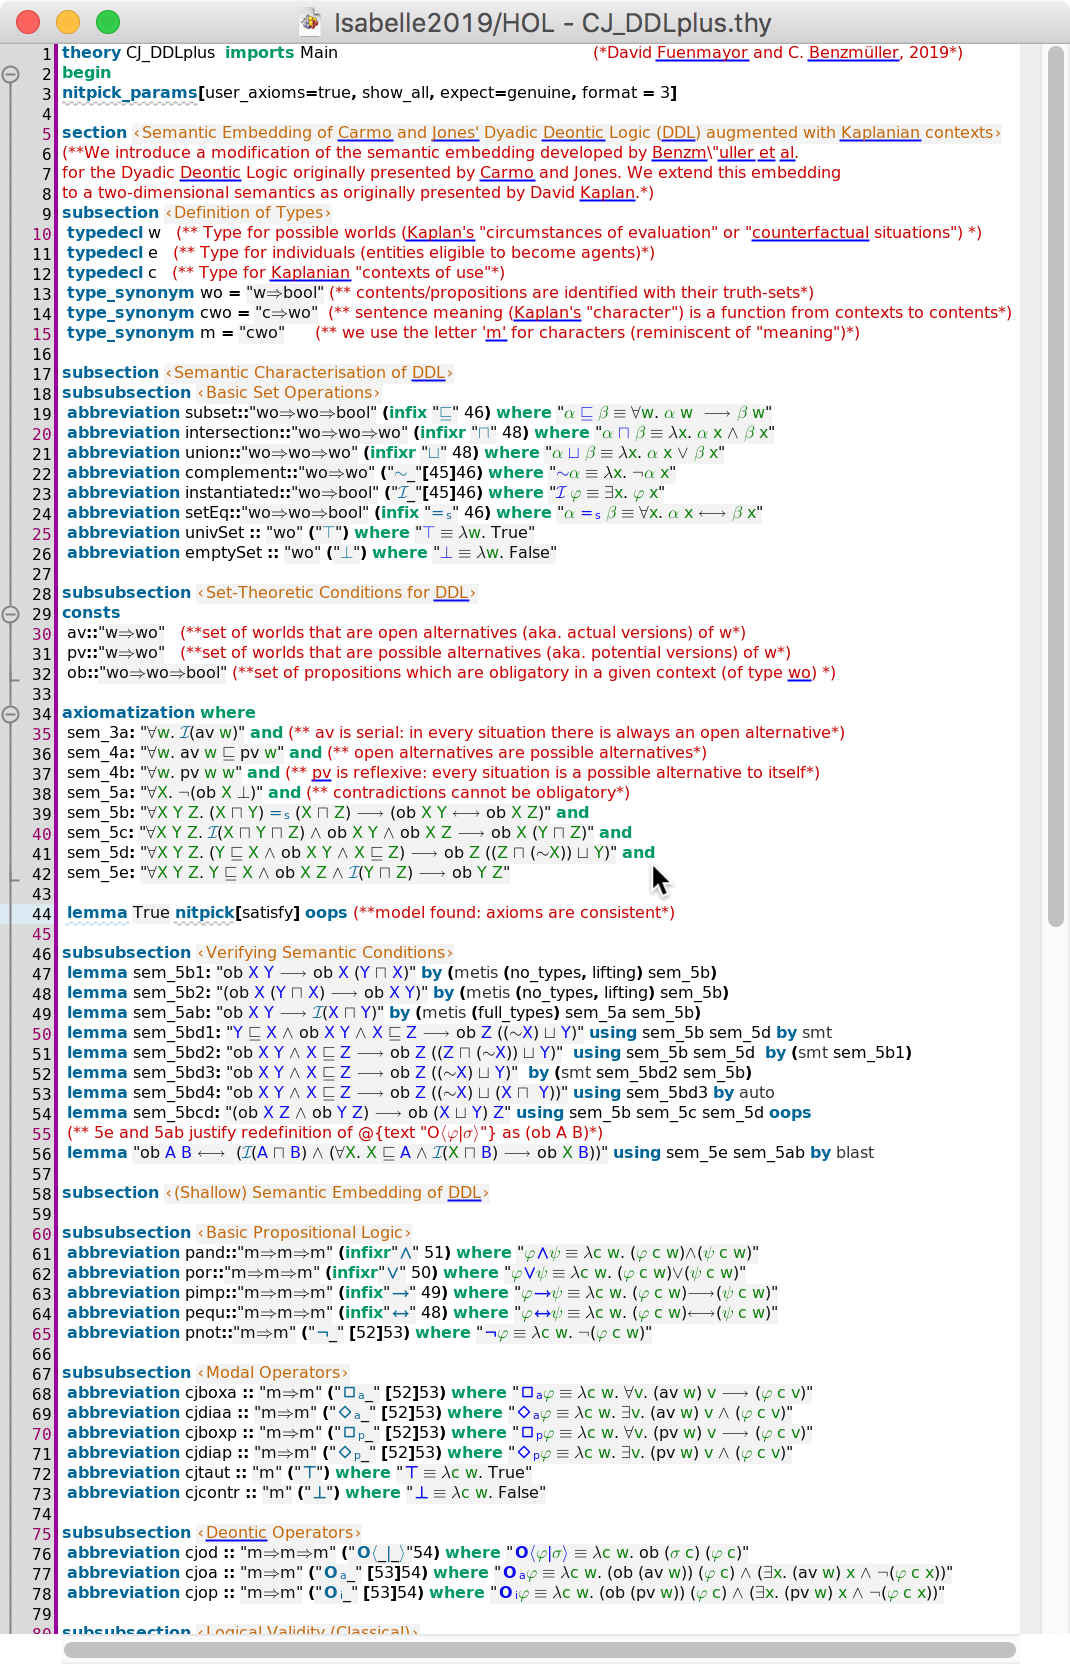
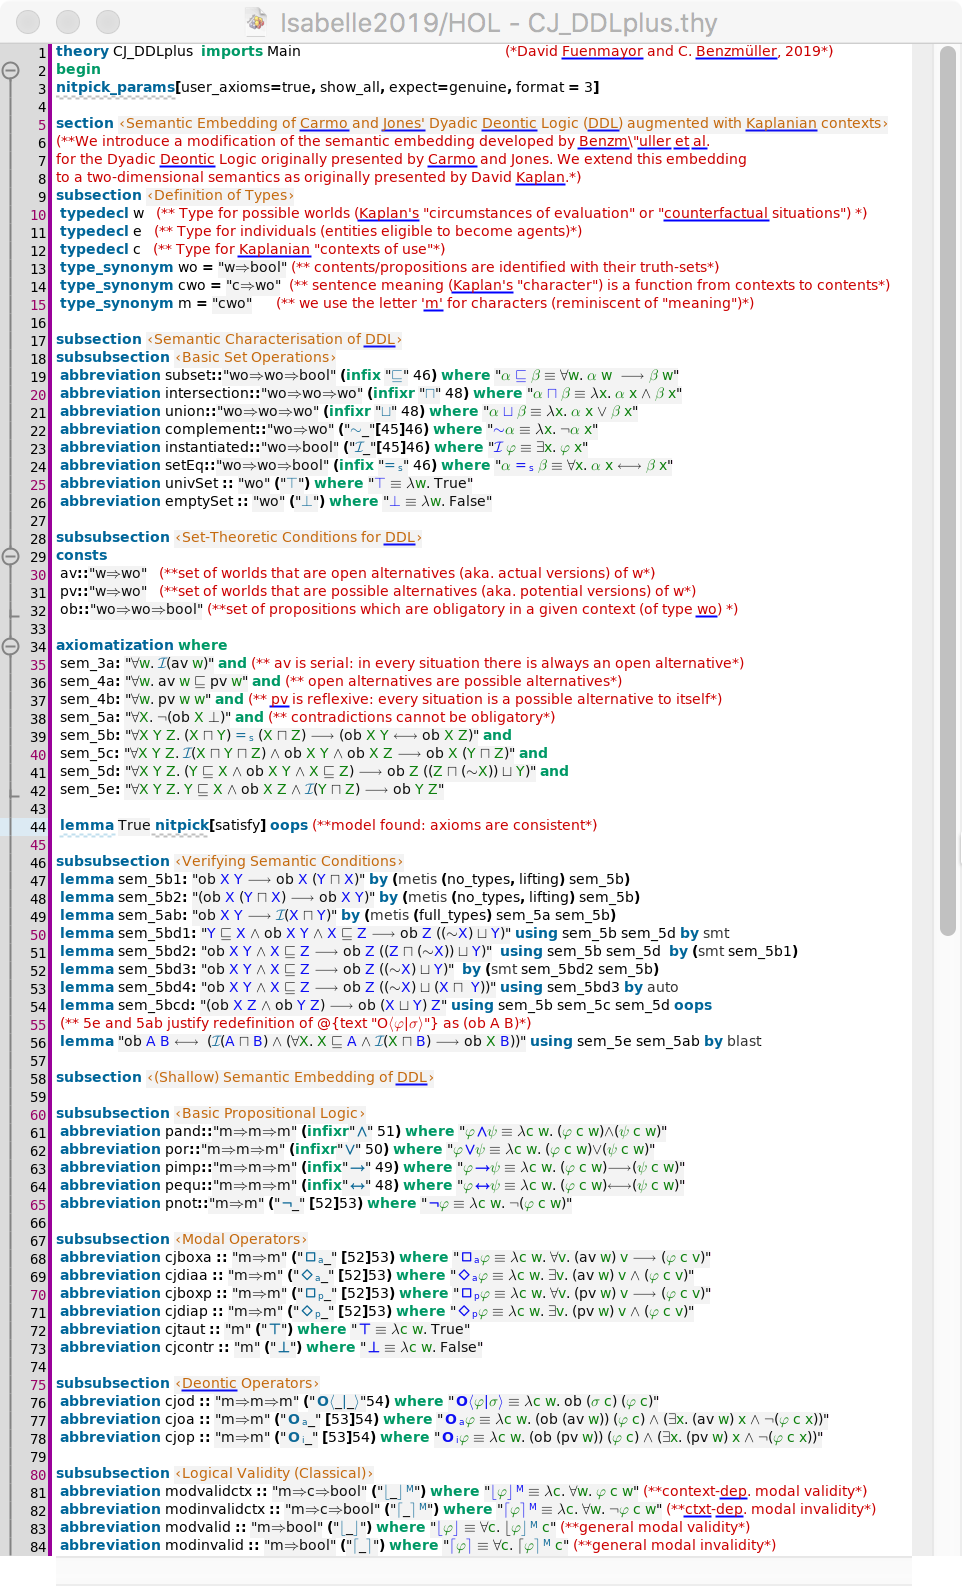
update

Changed region(s): [[0.0, 0.0, 1.0, 1.0], [0.9667, 0.5252, 1.0, 0.587]]

diff --git a/2020-DataInBrief-Article/DataInBrief.tex b/2020-DataInBrief-Article/DataInBrief.tex
@@ -467,11 +467,11 @@ data file contains (an extension of) the SSE of
   \midrule
   \textsf{\small \detokenize{IO_out2_STIT.thy}}
        & \textsf{\small Main.thy} 
-                    & \cite{J46}  
-                              & This file, which is related to \cite{MederMasters,Sun15},
-                                provides a consistent SSE of a quantified extension of
+                    & \cite{J46,MederMasters}  
+                              & Provides a consistent SSE of a quantified extension of
                                 IO logic (out2) \cite{DBLP:journals/jphil/MakinsonT00,textbook18} and elements of STIT logics \cite{horty} in HOL. The file also
-                                contains proof automation tests and soundness checks.\\
+                                contains proof automation tests and
+                                soundness checks. \\
   \midrule
   \textsf{\small \detokenize{CJ_DDLplus.thy}}
        & \textsf{\small  Main.thy} 
@@ -526,44 +526,45 @@ paradox \cite{c63} in standard deontic logic SDL.
 \begin{table}[ht!]
 \caption{Category II data files: paradoxes and examples of normative reasoning \label{table:Paradoxes}}
 \begin{tabularx}{\textwidth}{ccc*{1}{>{\raggedright\arraybackslash}X}}
-\toprule
-File & Dependency & Reading & Description \\
-\midrule
-\textsf{\small \detokenize{Chisholm_SDL.thy}}
-& \textsf{\small SDL.thy} 
-& --
-&  Contains a detailed analysis of Chisholm's contrary-to-duty paradox \cite{c63}
-  in SDL, including an independence analysis for all 
-  wide and narrow scoping options that arise in the axiomatization of
-  the paradox; see Fig.~\ref{fig:Chisholm_SDL}. \\
-\midrule
-\textsf{\small \detokenize{Chisholm_CJ_DDL_Monadic.thy}}
-& \textsf{\small \detokenize{CJ_DDL.thy}} 
-&  --
-&  Contains a study analogous to \textsf{\small
-  \detokenize{Chisholm_SDL.thy}} for 
-  monadic obligation in DDL. \\
-\midrule
-\textsf{\small \detokenize{Chisholm_CJ_DDL_Dyadic.thy}}
-& \textsf{\small \detokenize{CJ_DDL.thy}}
-& --
-&  Contains a study analogous to \textsf{\small
-  \detokenize{Chisholm_SDL.thy}} for 
-   dyadic  obligation in DDL. \\
-\midrule
-\textsf{\small \detokenize{Chisholm_E.thy}}
-& \textsf{\small \detokenize{CJ_DDL.thy}}
-& --
-&  Contains a study analogous to \textsf{\small
-  \detokenize{Chisholm_SDL.thy}} for 
-  deontic logic E. \\
-\midrule
-\textsf{\small \detokenize{IO_Experiments}}
-& \textsf{\small \detokenize{IO_out2_STIT}}
-& --
-&  This file, which is related to \cite{MederMasters,Sun15}, contains a study of different paradoxes from the literature in IO
-  logic (out2). \\
-\bottomrule
+  \toprule
+  File & Dependency & Reading & Description \\
+  \midrule
+  \textsf{\small \detokenize{Chisholm_SDL.thy}}
+       & \textsf{\small SDL.thy} 
+                    & --
+                              &  Contains a detailed analysis of Chisholm's contrary-to-duty paradox \cite{c63}
+                                in SDL, including an independence analysis for all 
+                                wide and narrow scoping options that arise in the axiomatization of
+                                the paradox; see Fig.~\ref{fig:Chisholm_SDL}. \\
+  \midrule
+  \textsf{\small \detokenize{Chisholm_CJ_DDL_Monadic.thy}}
+       & \textsf{\small \detokenize{CJ_DDL.thy}} 
+                    &  --
+                              &  Contains a study analogous to \textsf{\small
+                                \detokenize{Chisholm_SDL.thy}} for 
+                                monadic obligation in DDL. \\
+  \midrule
+  \textsf{\small \detokenize{Chisholm_CJ_DDL_Dyadic.thy}}
+       & \textsf{\small \detokenize{CJ_DDL.thy}}
+                    & --
+                              &  Contains a study analogous to \textsf{\small
+                                \detokenize{Chisholm_SDL.thy}} for 
+                                dyadic  obligation in DDL. \\
+  \midrule
+  \textsf{\small \detokenize{Chisholm_E.thy}}
+       & \textsf{\small \detokenize{CJ_DDL.thy}}
+                    & --
+                              &  Contains a study analogous to \textsf{\small
+                                \detokenize{Chisholm_SDL.thy}} for 
+                                deontic logic E. \\
+  \midrule
+  \textsf{\small \detokenize{IO_Experiments}}
+       & \textsf{\small \detokenize{IO_out2_STIT}}
+                    & \cite{MederMasters} 
+                              &  Contains a study of different paradoxes from the literature in IO
+                                logic (out2); the file 
+                                imports \textsf{\small \detokenize{IO_out2_STIT}}.\\
+  \bottomrule
 \end{tabularx}
 \end{table}
 
